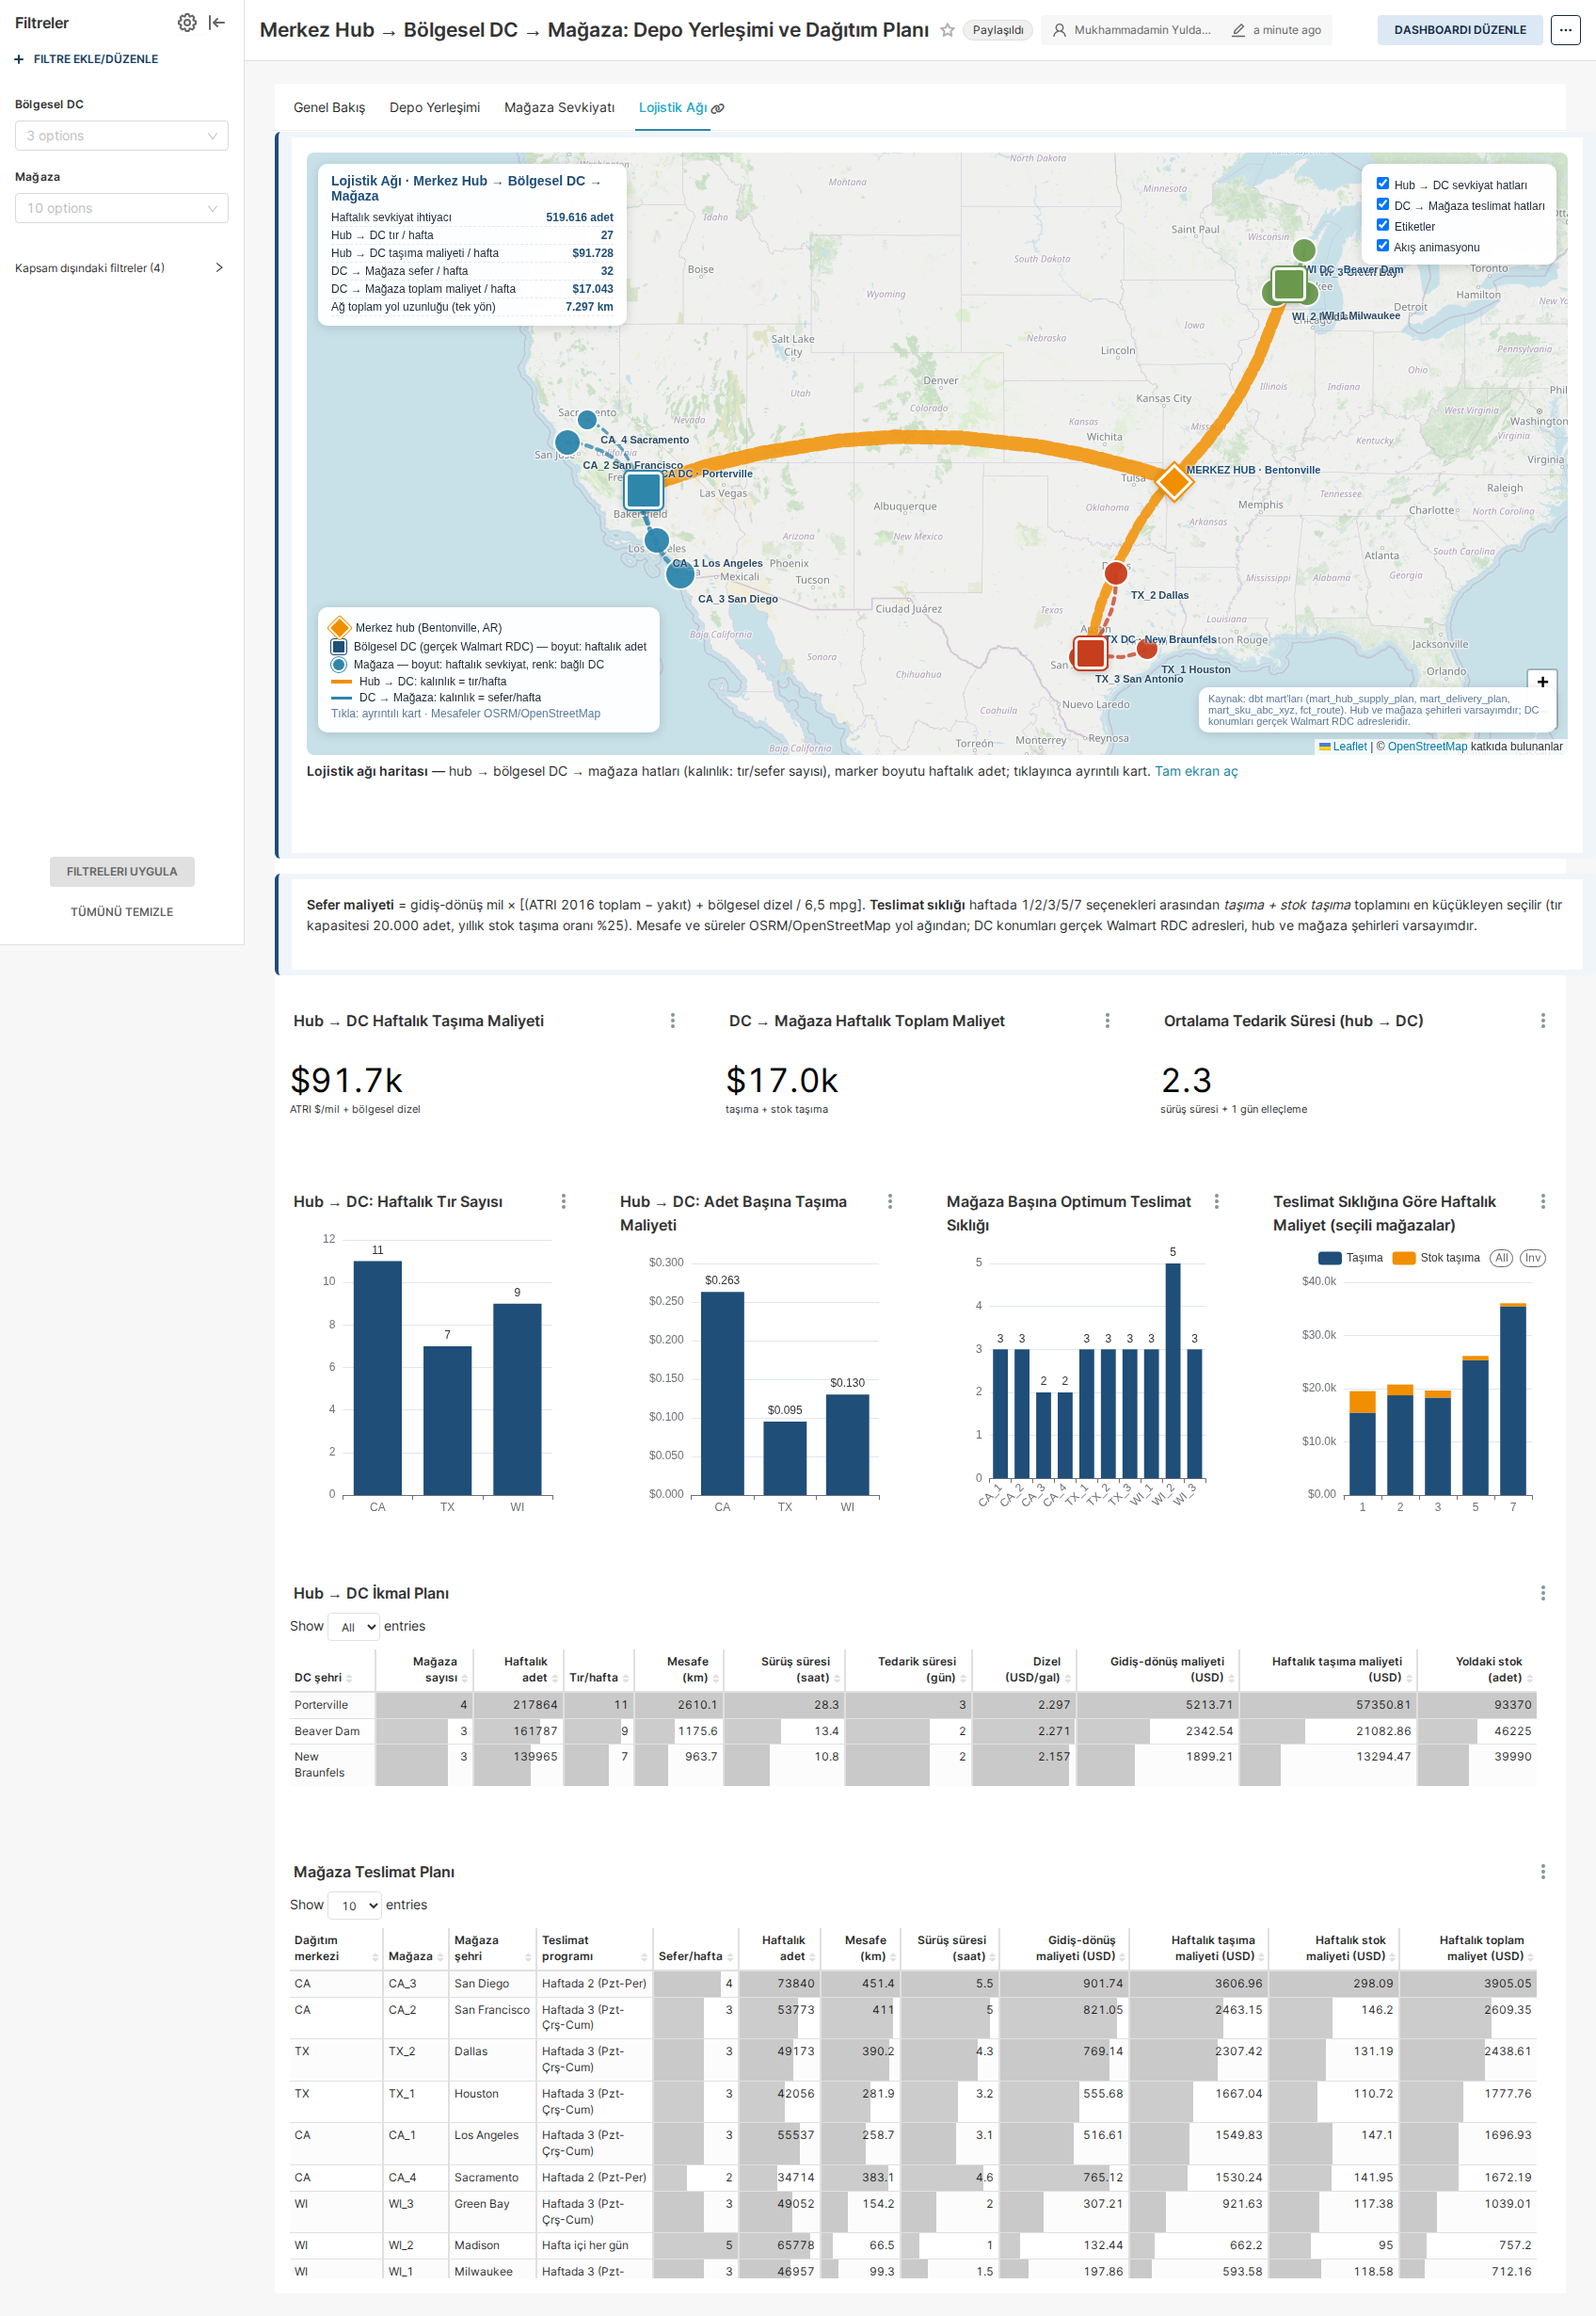
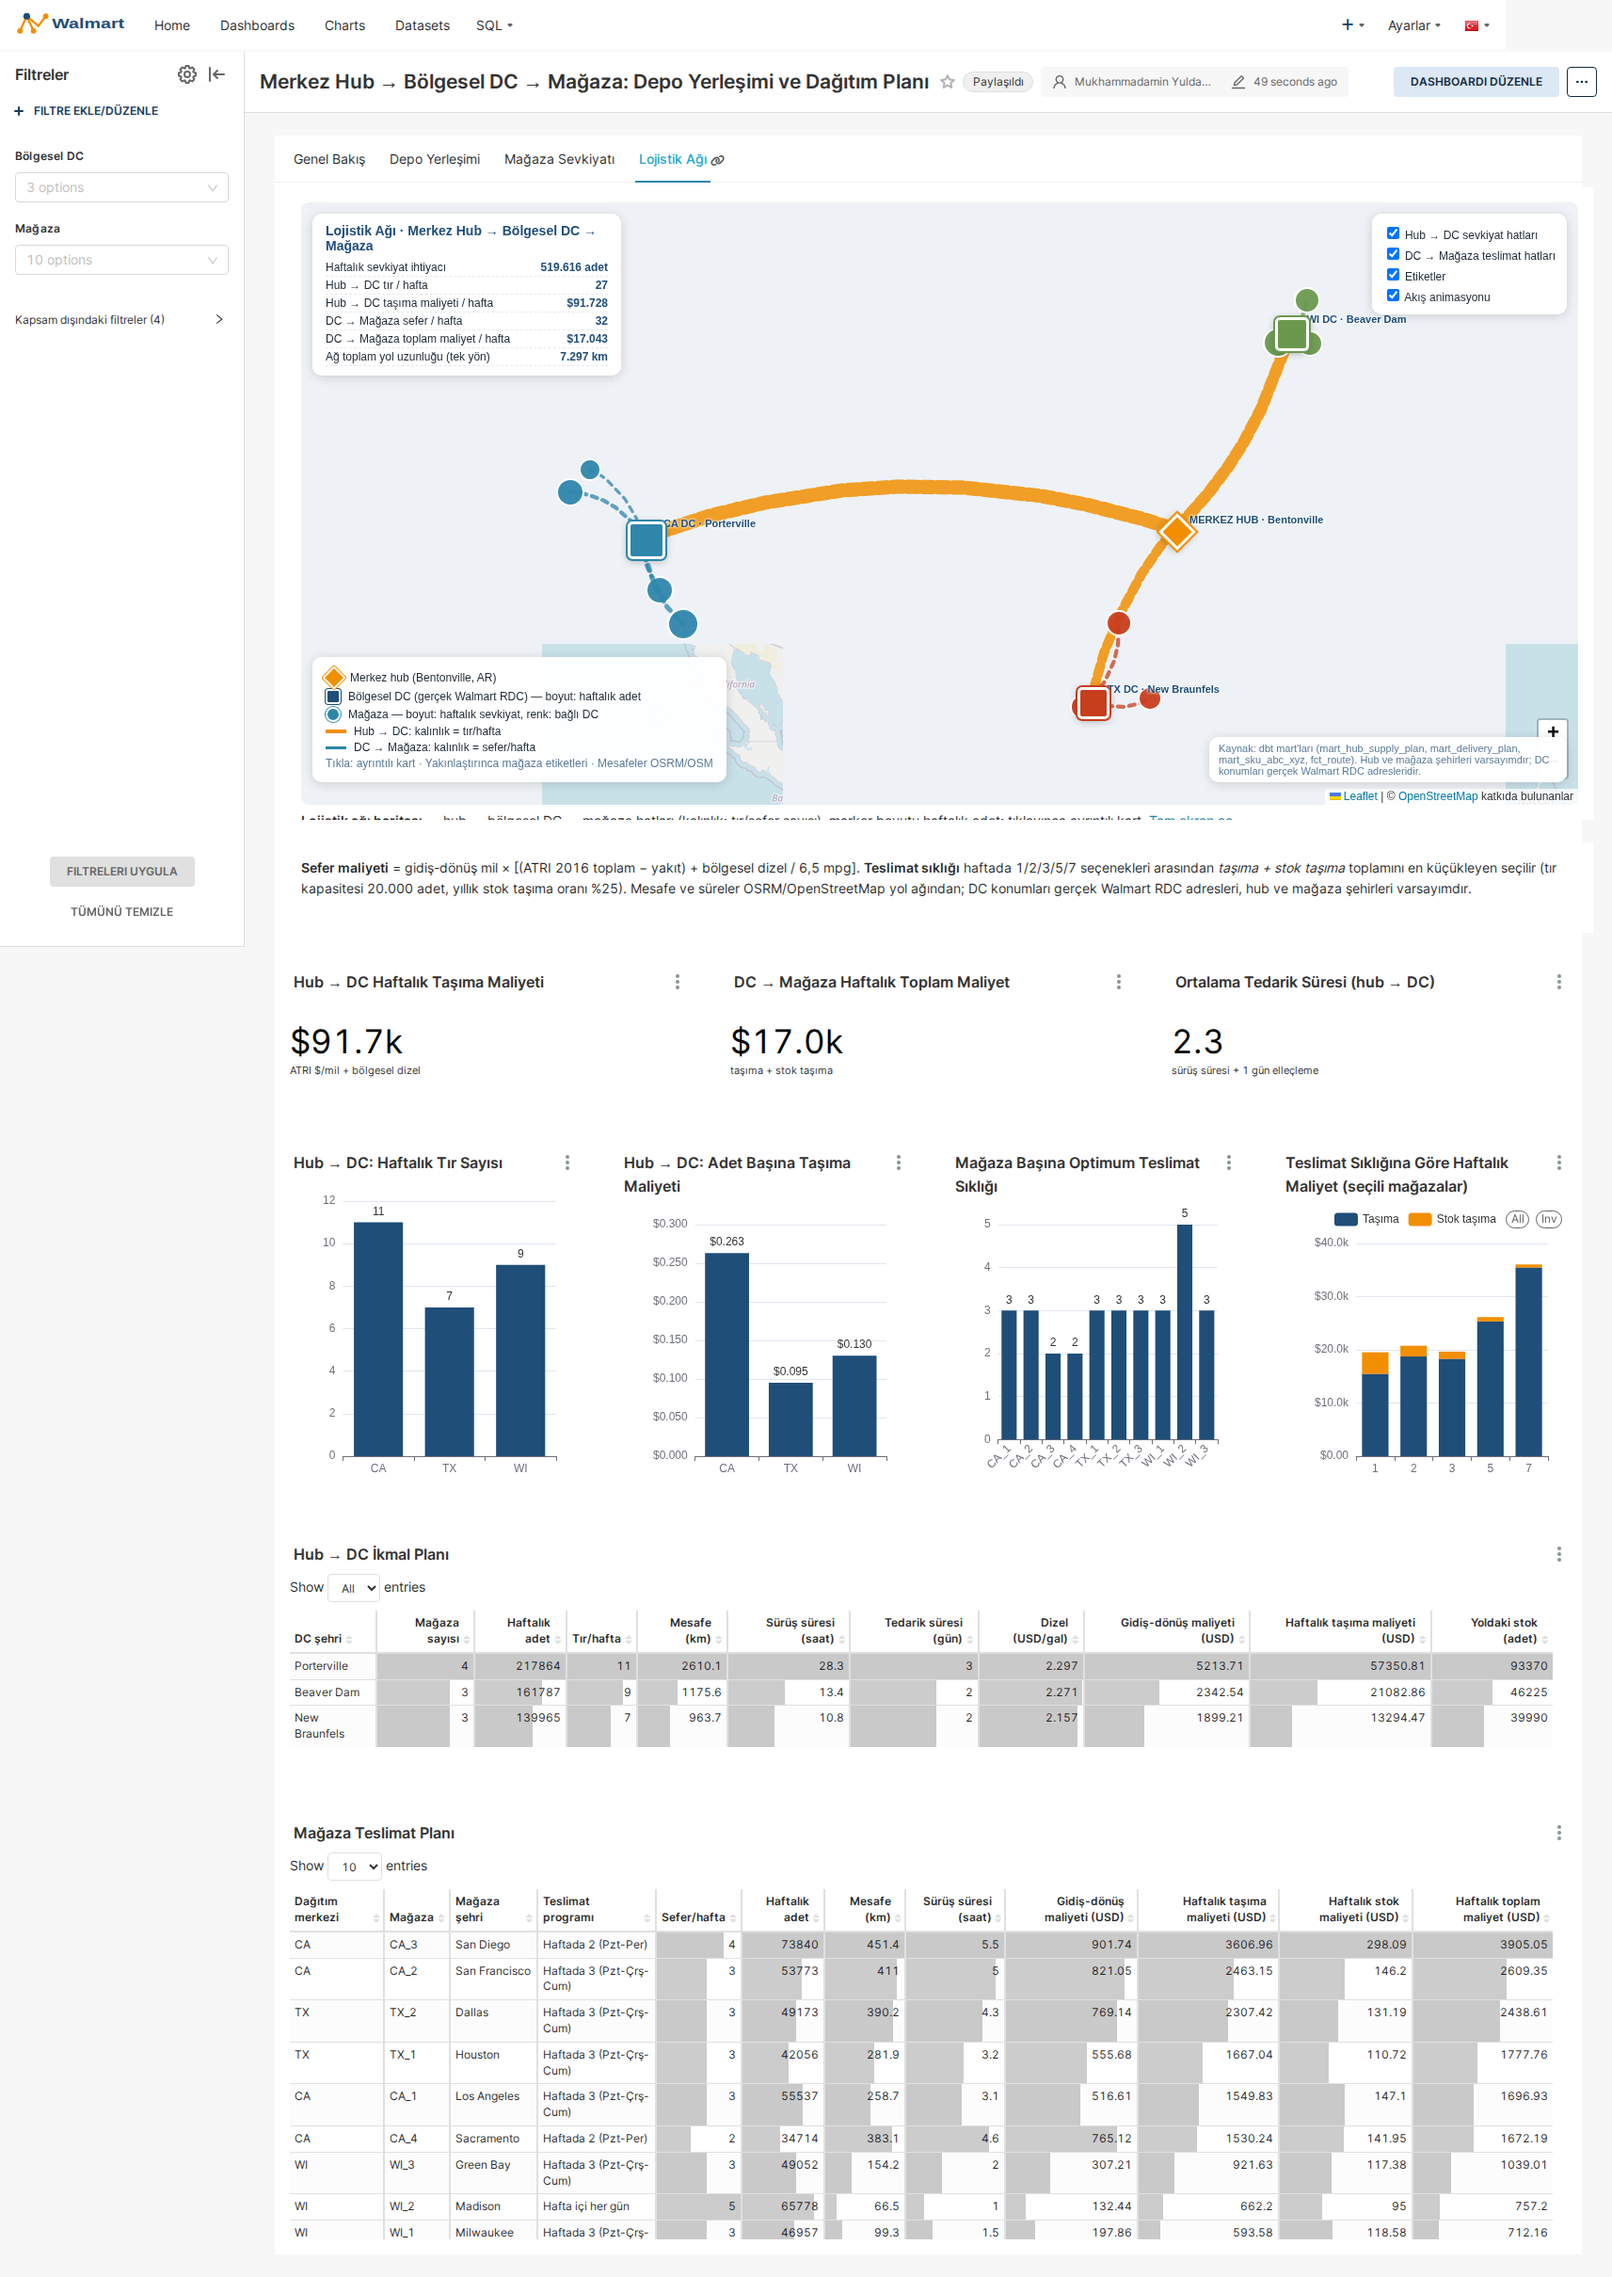
Görünüm: açıklama bloklarında kenar çizgisi kaldırıldı; marka yazımı Walmart

diff --git a/superset/bootstrap_dashboard.py b/superset/bootstrap_dashboard.py
@@ -407,8 +407,7 @@ def main():
                      "expanded_slices": {}, "label_colors": {}, "timed_refresh_immune_slices": [], "cross_filters_enabled": True,
                      "default_filters": "{}", "chart_configuration": chart_cfg}
     css = """
-.dashboard-markdown { background:#F0F5FA; border-left:4px solid #1F4E79; border-radius:6px; padding:6px 14px; }
-.dashboard-component-chart-holder .header-title { color:#1F4E79; }
+.dashboard-markdown { padding:4px 12px; }
 """
     api.put(f"/dashboard/{dash_id}", {"position_json": json.dumps(L.pos), "json_metadata": json.dumps(json_metadata), "published": True, "css": css})
     print(f"dashboard ready: {a.base_url}/superset/dashboard/{DASH_SLUG}/")

diff --git a/superset/superset_config.py b/superset/superset_config.py
@@ -13,7 +13,7 @@ SUPERSET_WEBSERVER_TIMEOUT = 120
 TALISMAN_ENABLED = False
 
 # ---------------- Marka / görünüm (Grup 6) ----------------
-APP_NAME = "Wallmart · DC Planning"
+APP_NAME = "Walmart · DC Planning"
 APP_ICON = "/static/assets/images/custom/logo.svg"
 APP_ICON_WIDTH = 190
 LOGO_TARGET_PATH = "/superset/dashboard/dc-planning/"
